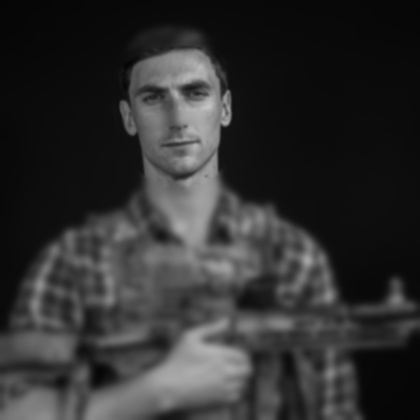
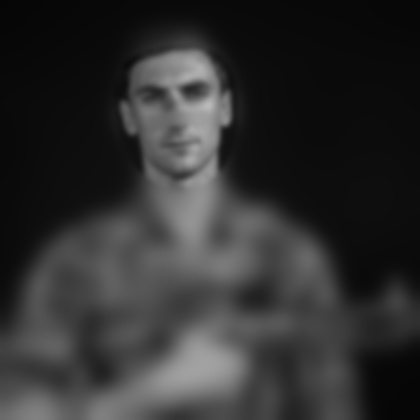
bedr

diff --git a/face_full_processing.py b/face_full_processing.py
@@ -7,15 +7,15 @@ import sys
 import pickle
 import facemesh
 import tkinter
-from tkinter import Tk     # from tkinter import Tk for Python 3.x
+from tkinter import Tk
 from tkinter.filedialog import askopenfilename
 
-Tk().withdraw() # we don't want a full GUI, so keep the root window from appearing
+Tk().withdraw()
 filename = askopenfilename()
 
 
-blur_radius = 21 # must be an odd number
-face_blur_radius = 5
+blur_radius = 61 # must be an odd number
+face_blur_radius = 15
 lower_thresh = 0
 upper_thresh = 31 # after extensive research, I am fairly certian that you only need to change this value...
 
